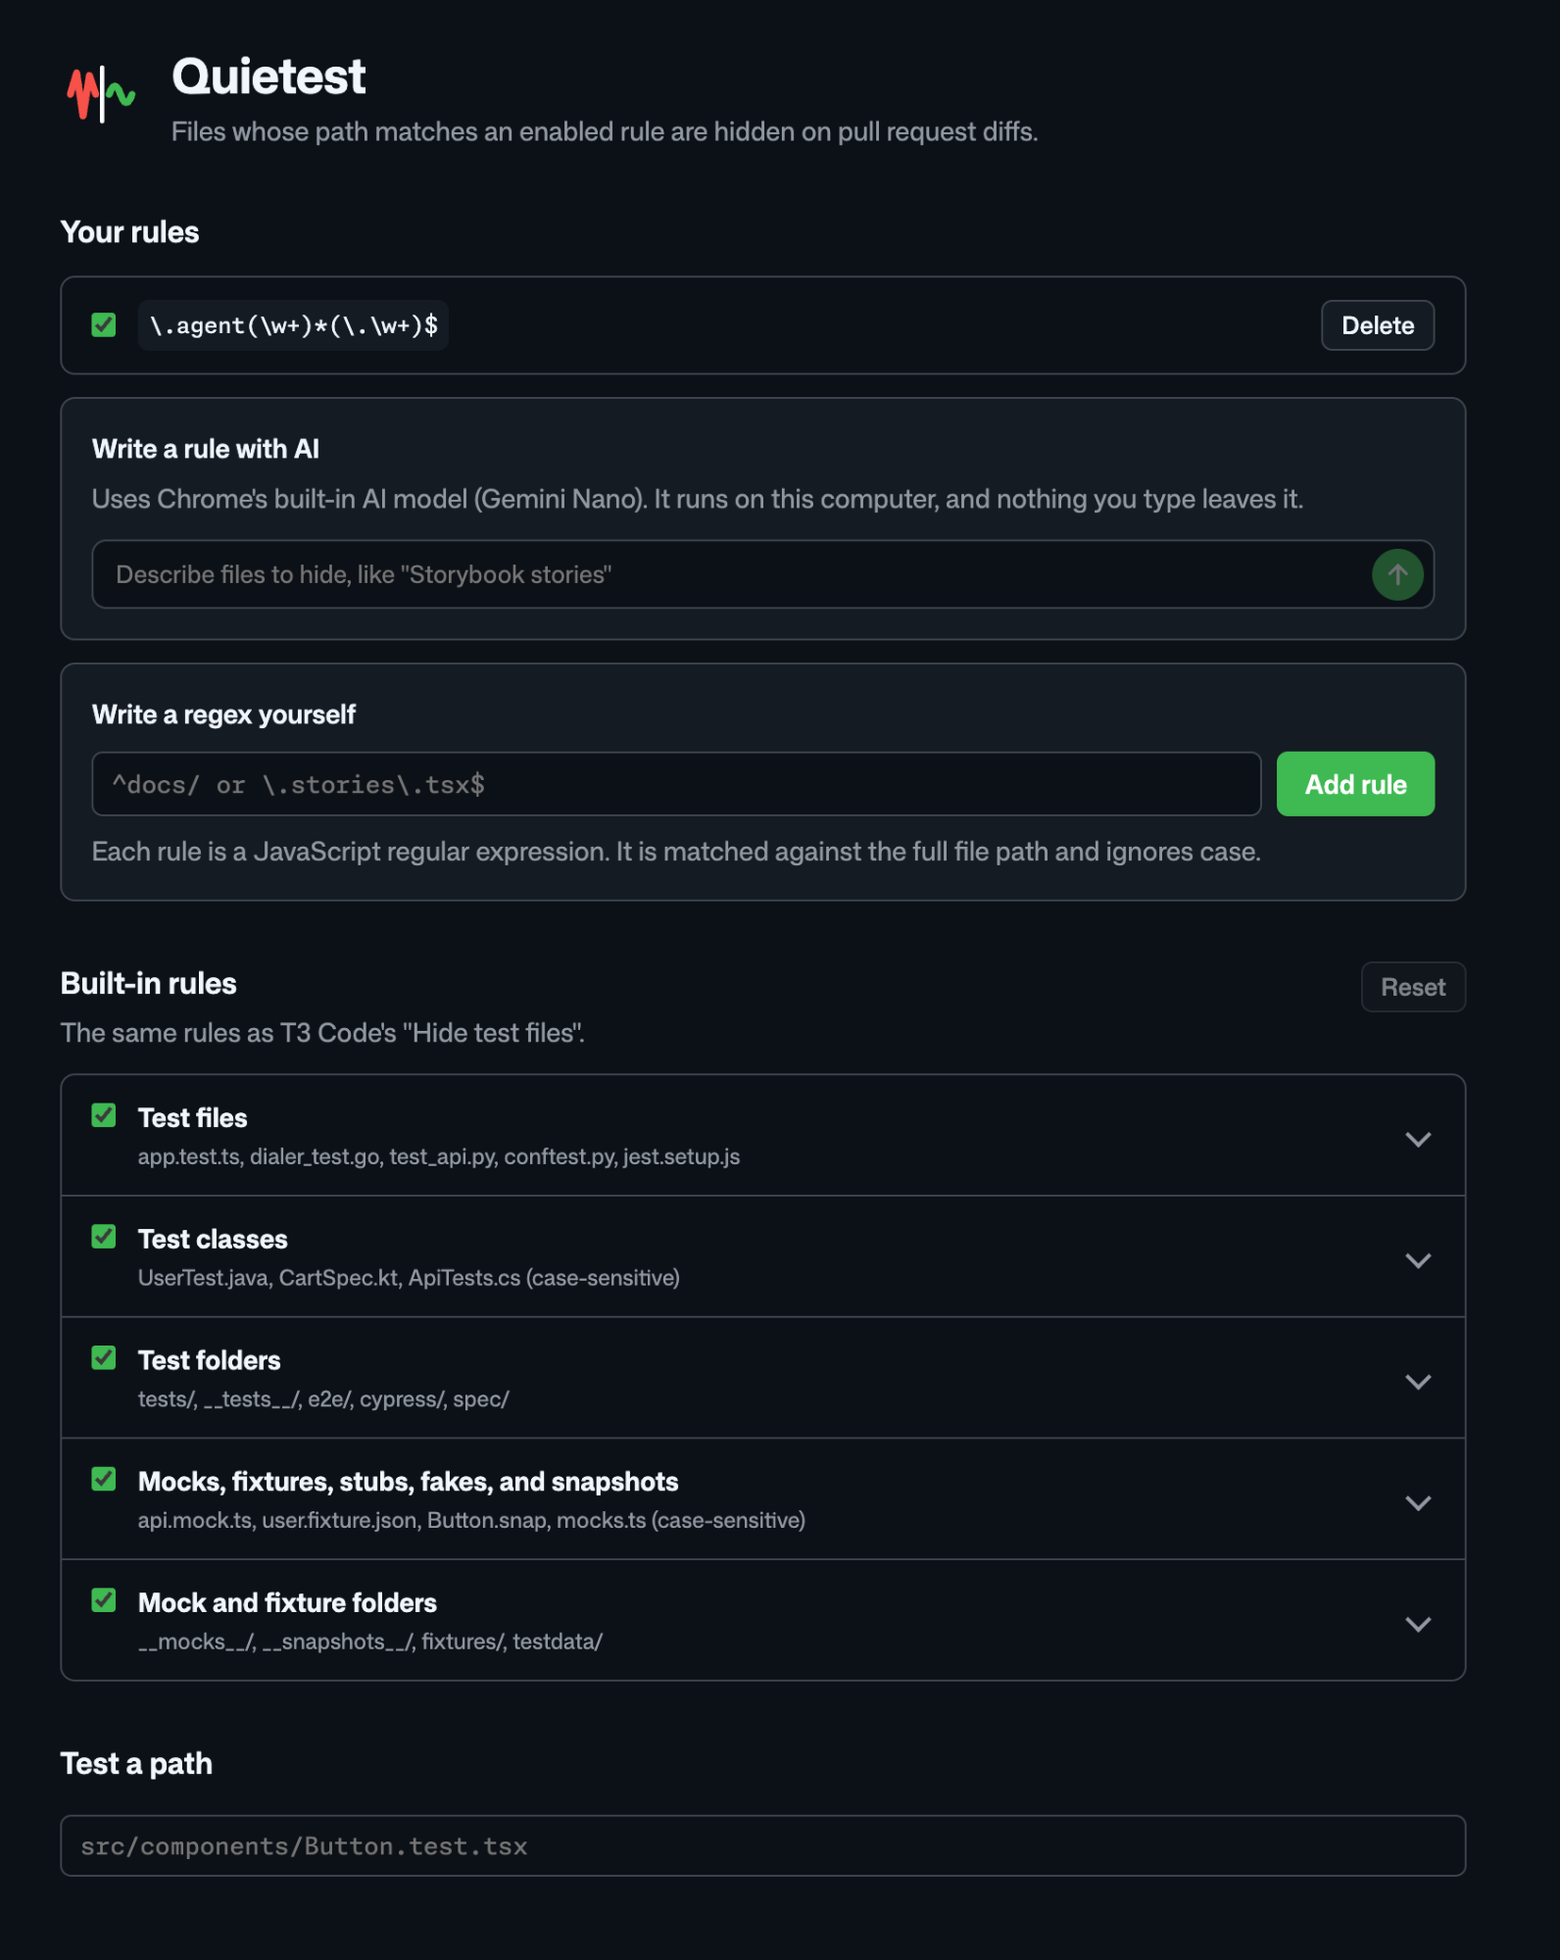
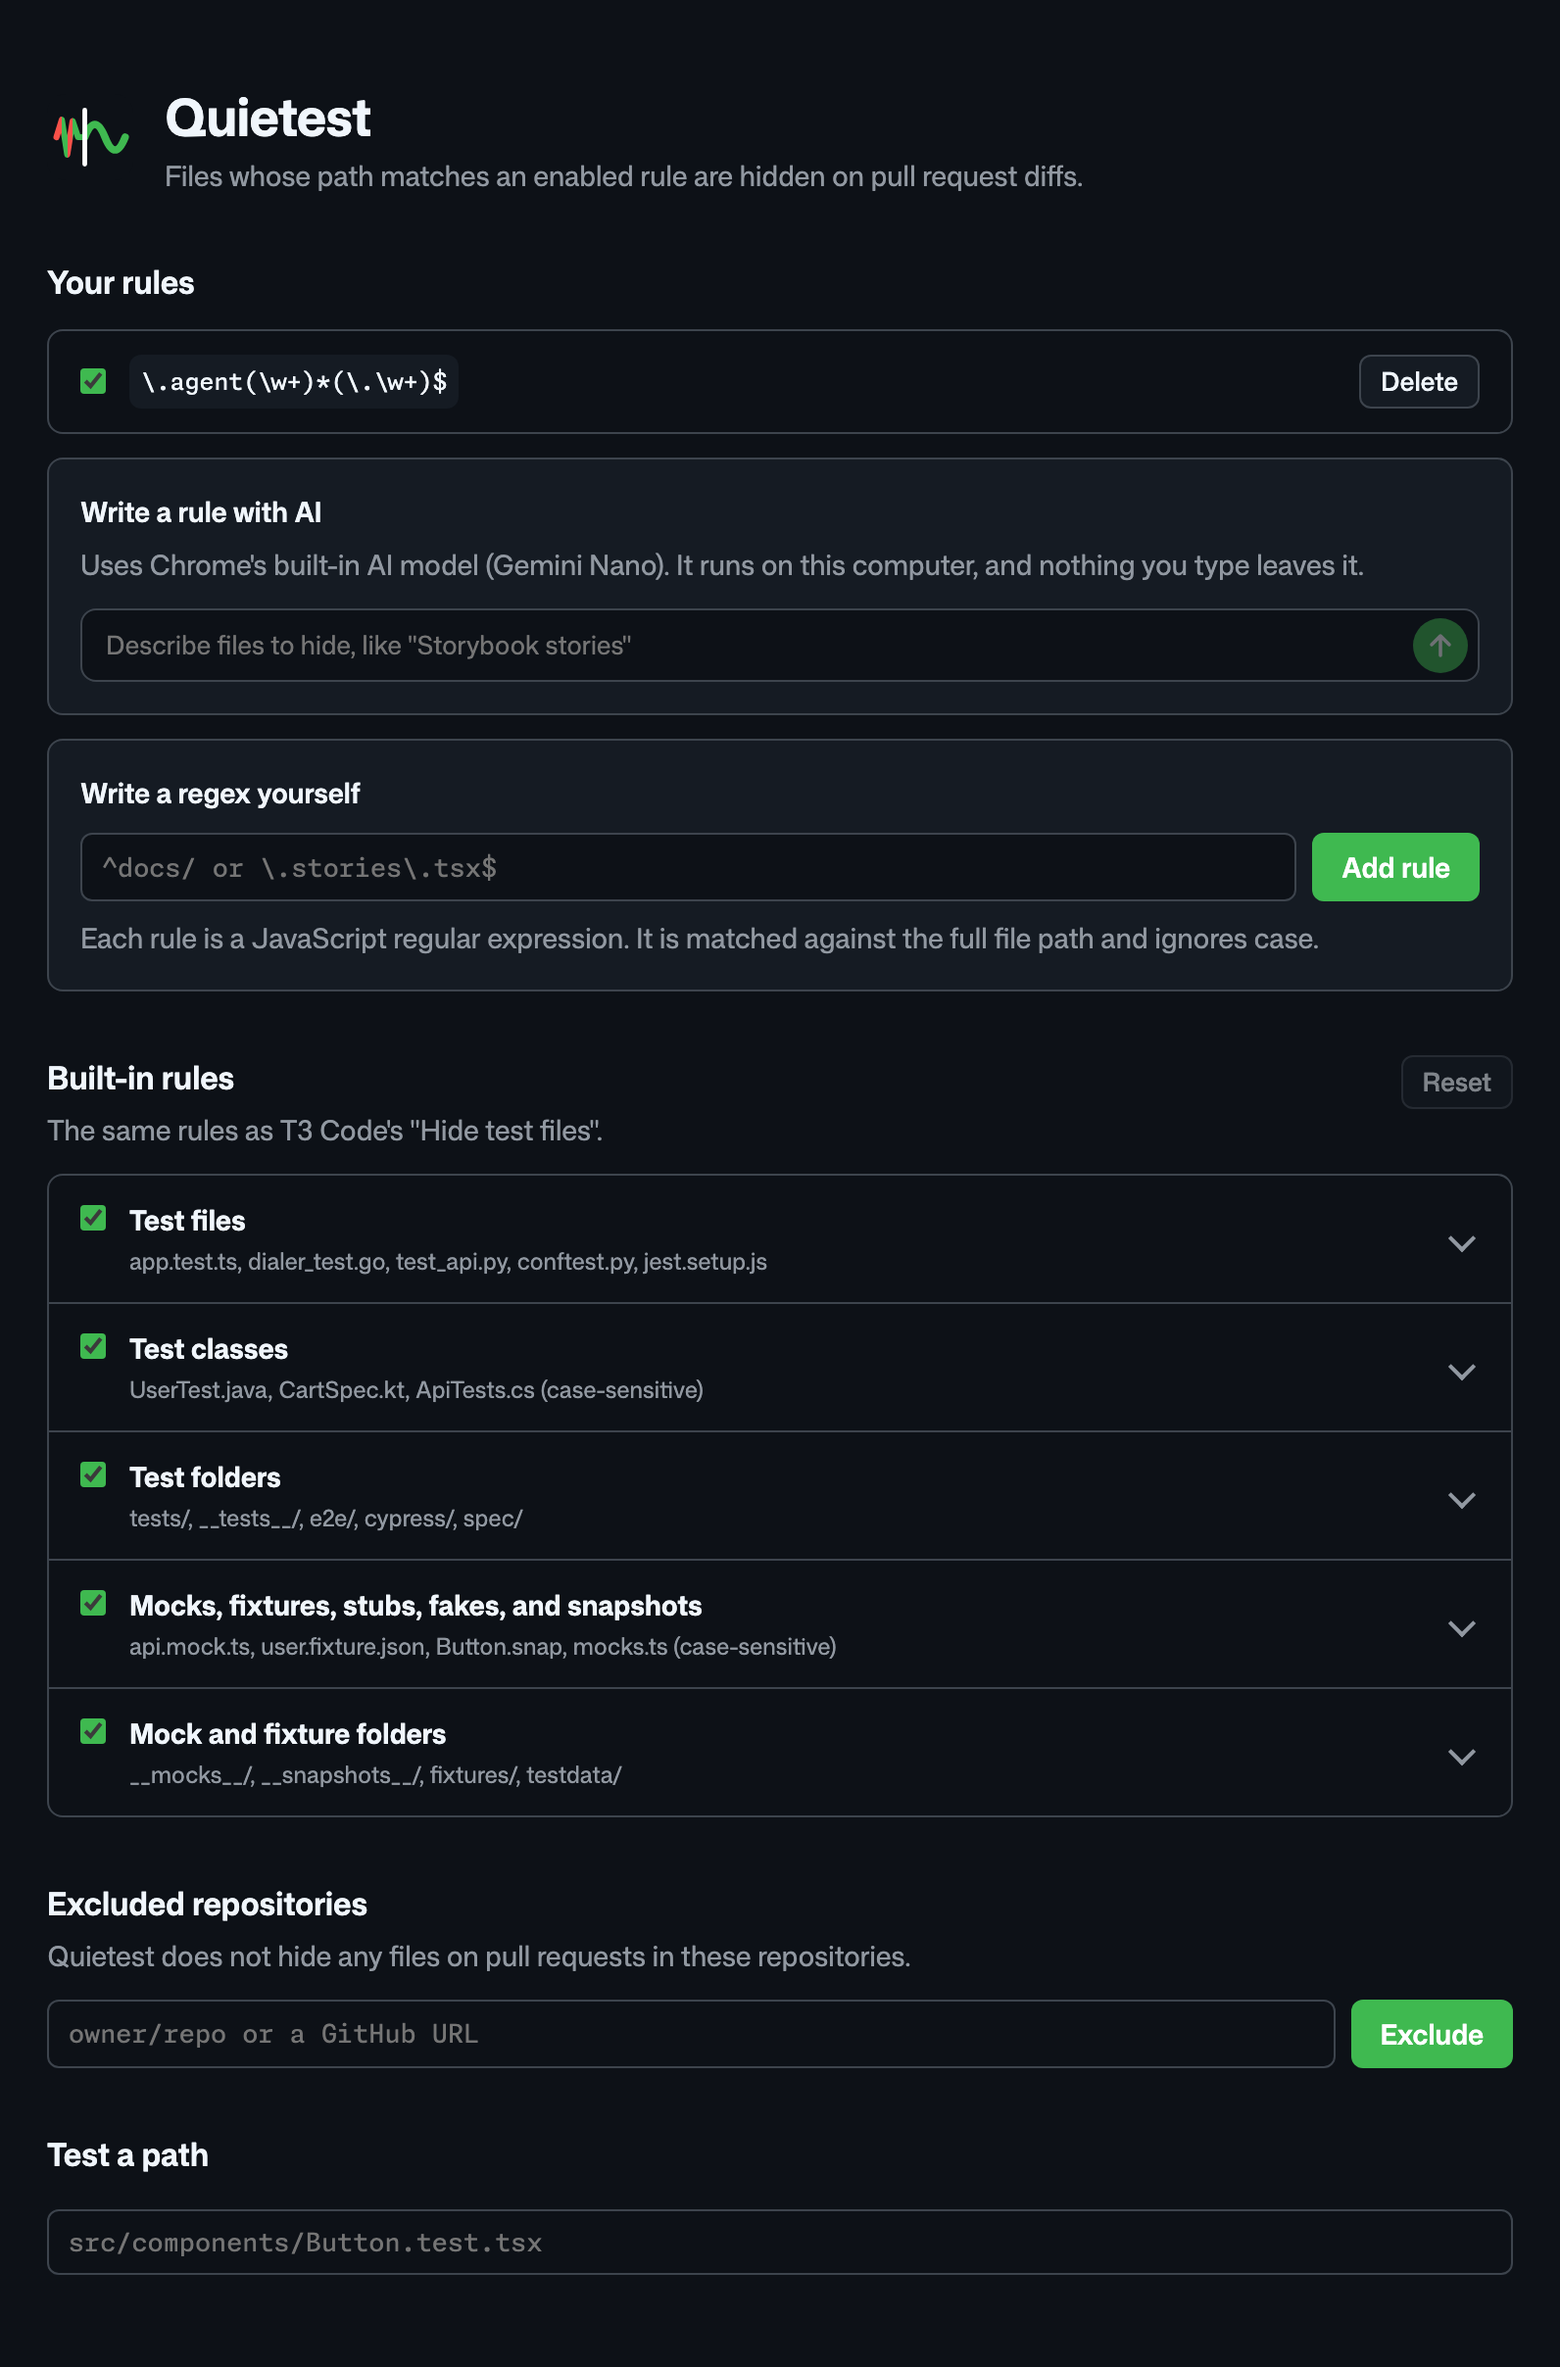
docs: update screenshots and feature details for v0.1.2

diff --git a/privacy-policy.html b/privacy-policy.html
@@ -7,7 +7,7 @@
   </head>
   <body>
     <h2>Privacy Policy</h2>
-    <p>Last updated: October 23, 2026</p>
+    <p>Last updated: October 29, 2026</p>
 
     <p>
       This Privacy Policy explains how "Quietest" handles your data when you use
@@ -23,10 +23,10 @@
 
     <h3>Data Stored in Your Browser</h3>
     <p>
-      Quietest saves your settings: which built-in rules are turned on and the
-      regex rules you add. They are saved with Chrome's storage, so Chrome can sync
-      them across your own devices when Chrome sync is on. Quietest never sends
-      them anywhere else.
+      Quietest saves your settings: which built-in rules are turned on, the
+      regex rules you add, and the repositories you exclude. They are saved with
+      Chrome's storage, so Chrome can sync them across your own devices when
+      Chrome sync is on. Quietest never sends them anywhere else.
     </p>
 
     <h3>Permissions</h3>

diff --git a/README.md b/README.md
@@ -2,9 +2,9 @@
 
 A Chrome extension that hides test files on GitHub pull requests, so you can review the real code. _The quietest diff: tests muted until you ask._
 
-| Tests hidden (default) | Tests shown |
-|---|---|
-| ![Quietest button with tests hidden](docs/tests-hidden.png) | ![Quietest button with tests shown](docs/tests-shown.png) |
+| Show implementation (default) | Show tests | Show both |
+|---|---|---|
+| ![Quietest button with tests hidden](docs/tests-hidden.png) | ![Quietest button showing only tests](docs/tests-only.png) | ![Quietest button with tests shown](docs/tests-shown.png) |
 
 ## Motivation 🤔
 
@@ -33,9 +33,11 @@ Open a PR's **Files changed** tab. Test files are now hidden. This install does 
 ## Features 🌟
 
 - Hides test files, mocks, fixtures, and snapshots in a PR's diff and in its file tree. Folders that hold only hidden files are hidden too.
-- When Quietest hides files on a PR, its button shows at the bottom right of the page. Hover it to see how many files it hid. Click it to show them again; the button then turns into red noise with the count of files. Click again to hide them.
-- Every new PR starts with these files hidden.
-- Choose which paths to hide on the settings page, with your own regex rules or with Chrome's on-device AI.
+- Works on a PR's **Files changed** tab and on individual commit diffs inside a PR.
+- When Quietest hides files on a PR, its button shows at the bottom right of the page with a badge for the hidden file count. Hover it to see how many files it hid.
+- Click the button to open the view menu and switch between **Show implementation** (hides test files, the default), **Show tests** (hides implementation files so you can review tests on their own), and **Show both** (shows every file).
+- Every new PR starts with test files hidden.
+- Choose which paths to hide on the settings page, with your own regex rules or with Chrome's on-device AI, or exclude repositories you want Quietest to leave alone.
 
 ## Settings ⚙
 
